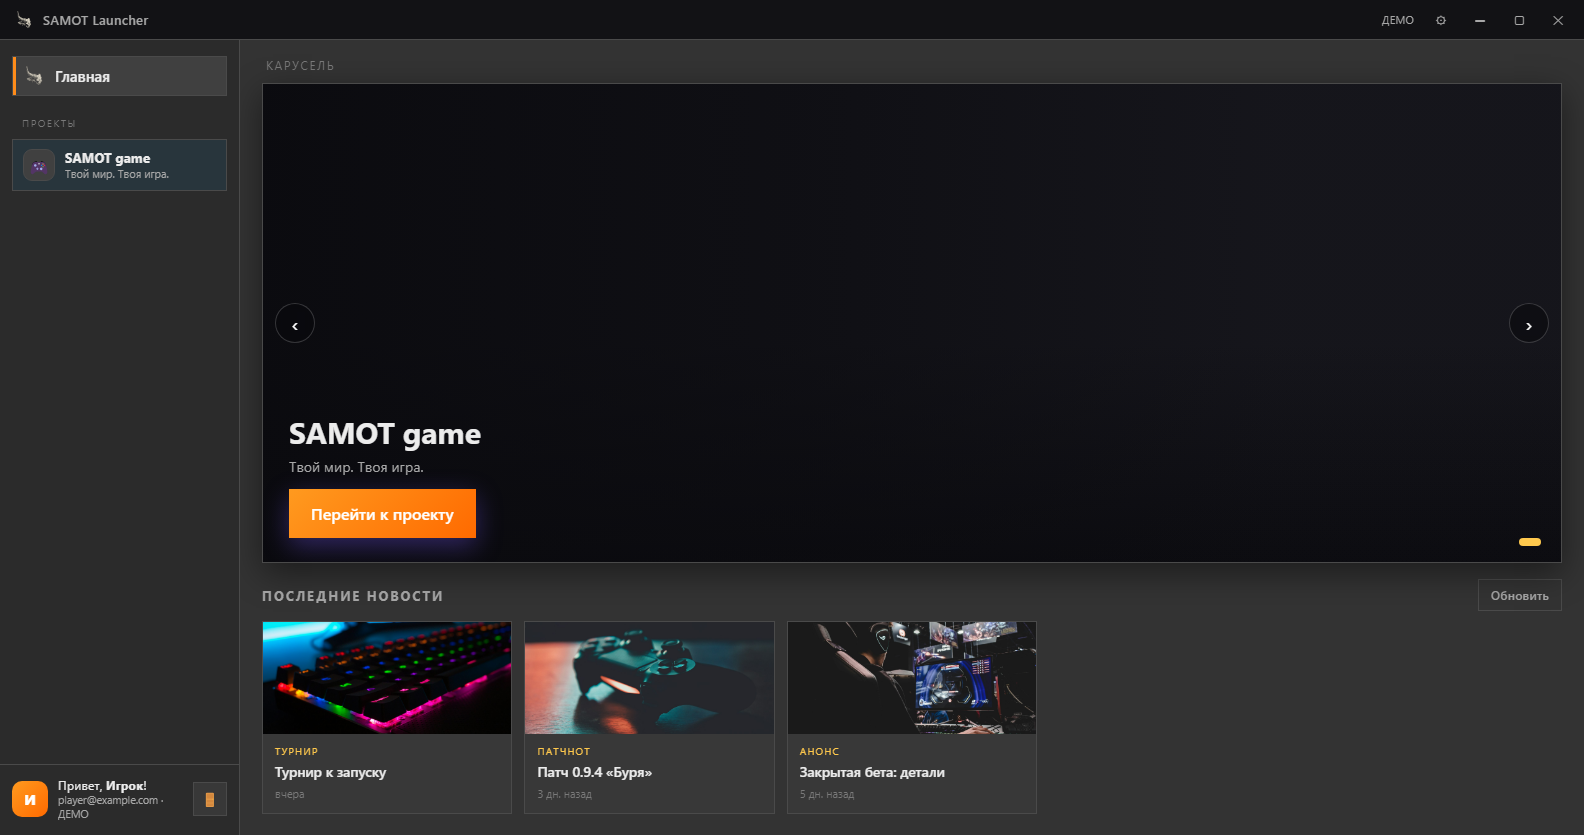
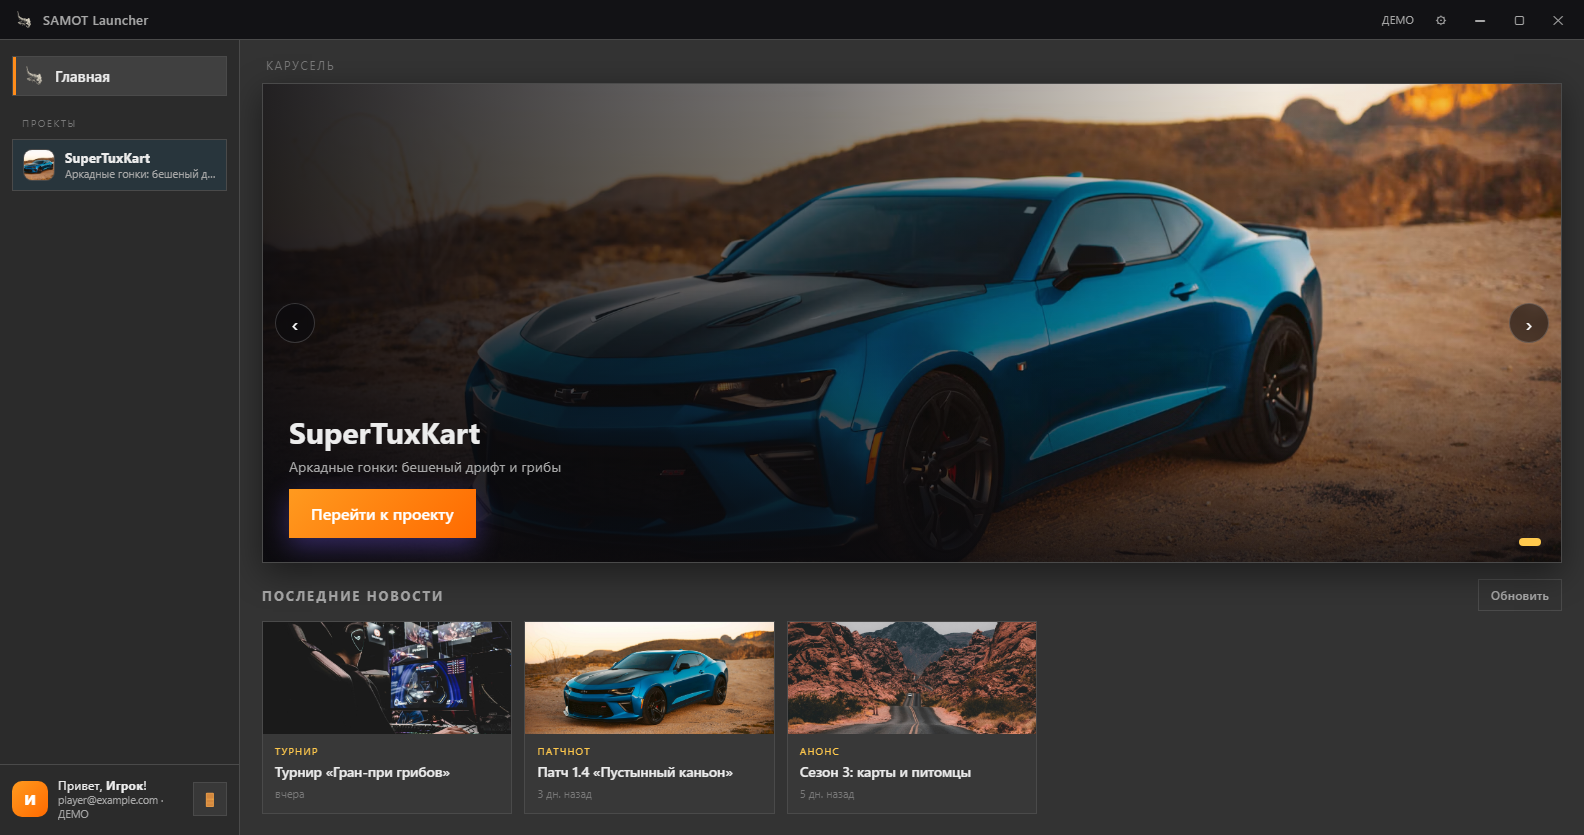
docs: SuperTuxKart demo screenshots + launcher gallery

diff --git a/README.md b/README.md
@@ -49,9 +49,15 @@
 
 ## Скриншоты
 
+Демонстрационные экраны — проект «SuperTuxKart» в демо-режиме (свободный kart-гонщик, GPLv3).
+
 <p align="center">
   <img src="docs/screenshots/admin-panel.png" alt="SAMOT Admin: новости и баннеры" width="49%">
   <img src="docs/screenshots/packager.png" alt="SAMOT Packager" width="49%">
+</p>
+<p align="center">
+  <img src="docs/screenshots/launcher-main.png" alt="Что видит игрок: главная лаунчера" width="49%">
+  <img src="docs/screenshots/launcher-download.png" alt="Скачивание: прогресс, скорость, пауза" width="49%">
 </p>
 
 ## Как выпустить свою игру
@@ -76,6 +82,8 @@ npm run dist       # собрать установщик (dist/SAMOT Admin Setup
 ```
 
 > Два репозитория держим синхронными по `src/config.js` и `src/documents.js` — при правках меняйте в обоих.
+
+> Демо-иллюстрации: SuperTuxKart (свободный kart-гонщик, GPLv3) — учебный пример заполнения проекта. Изображения — Unsplash.
 
 ## Лицензия
 
